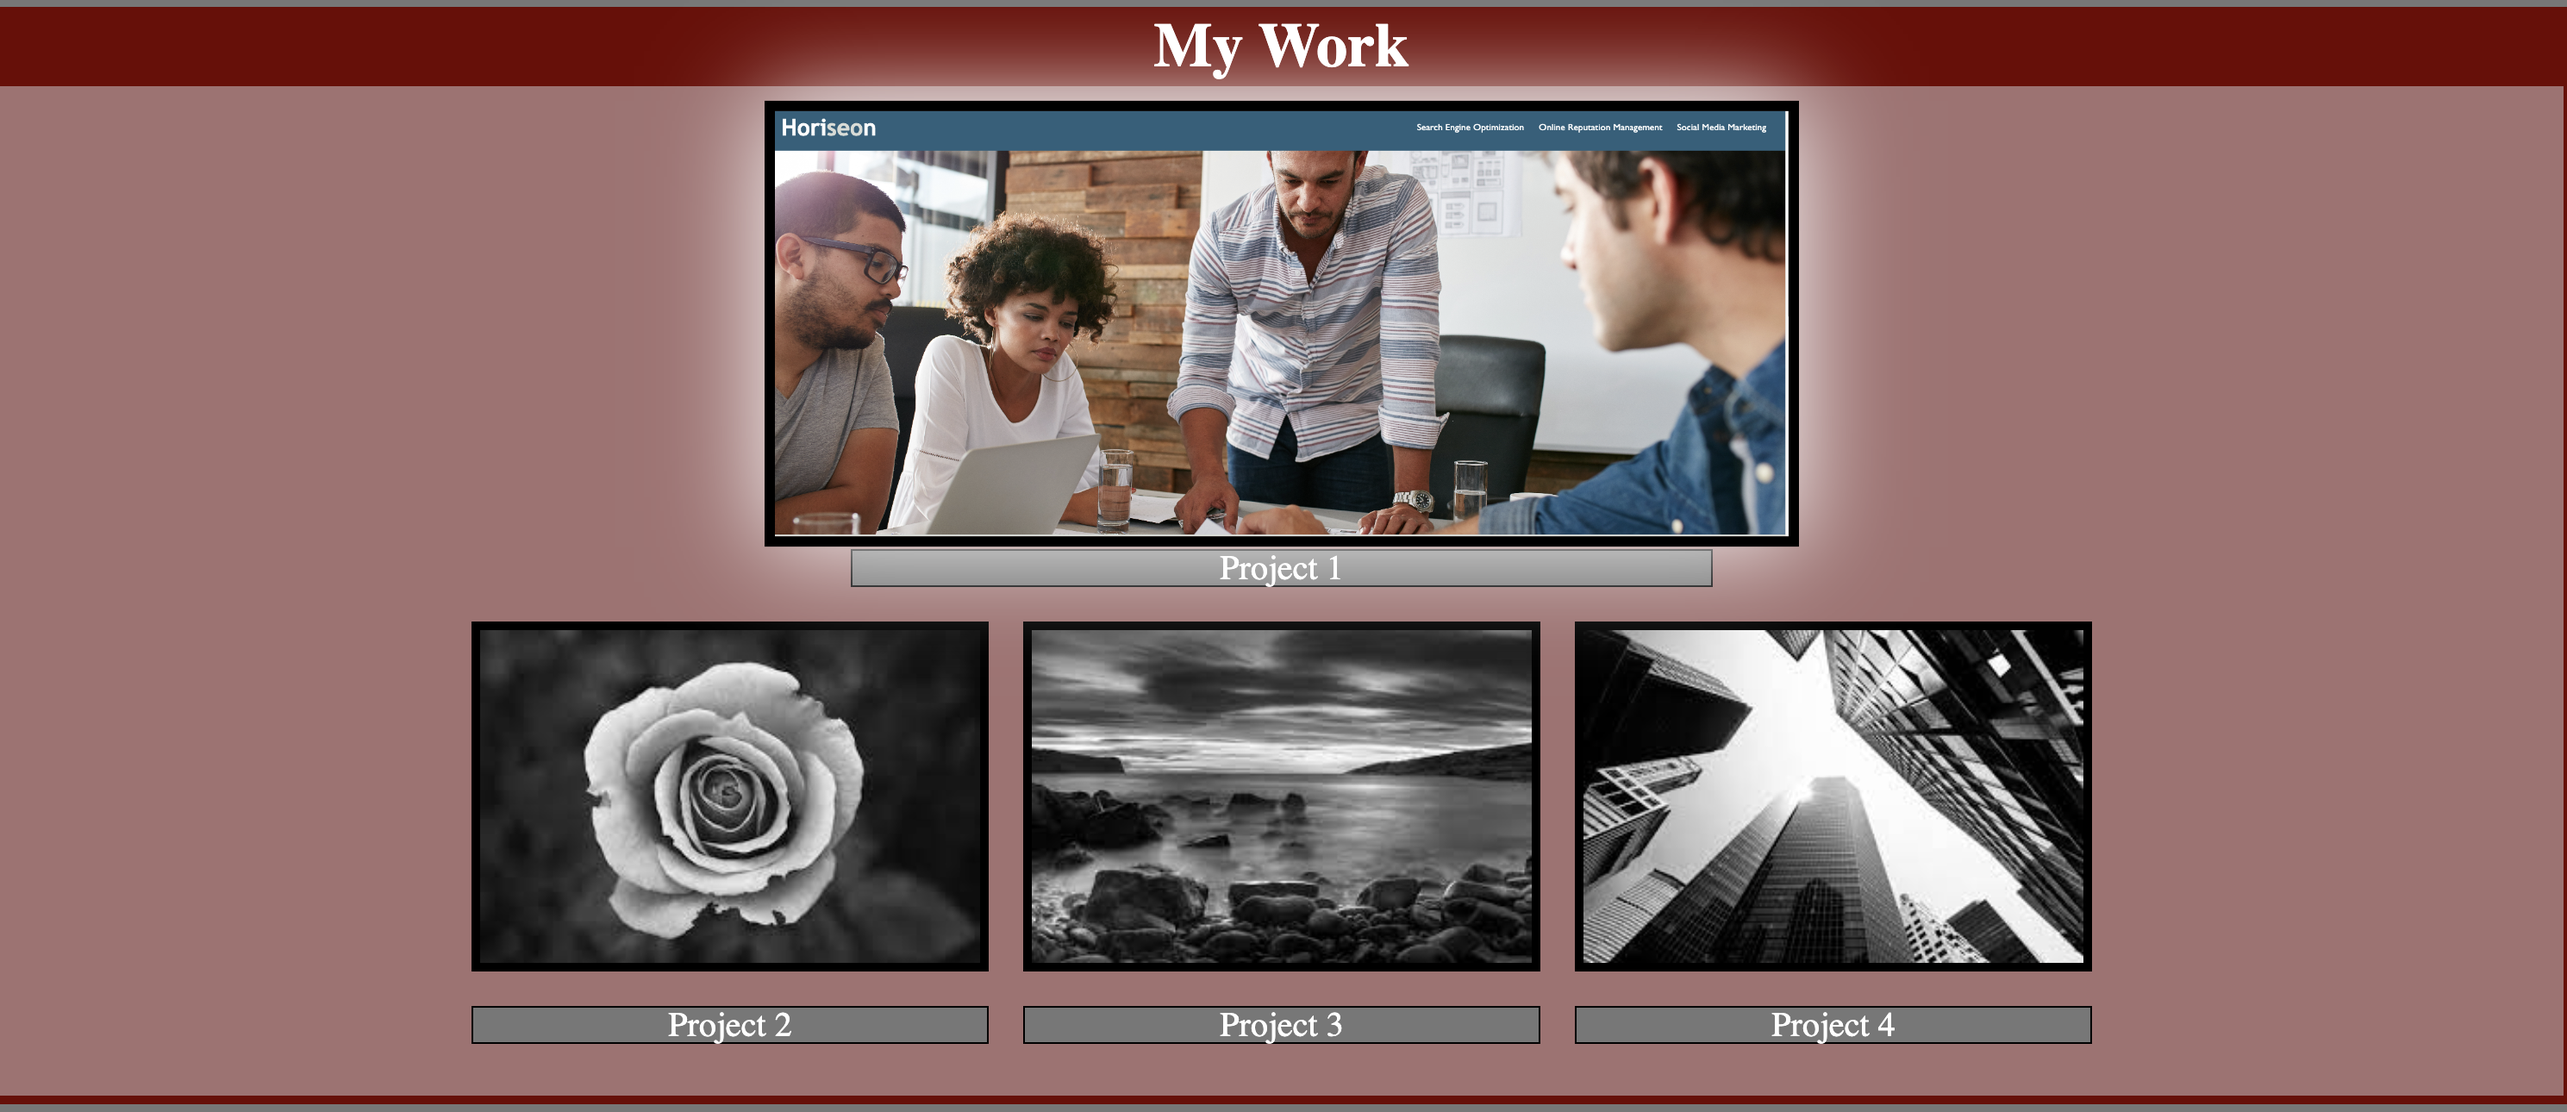
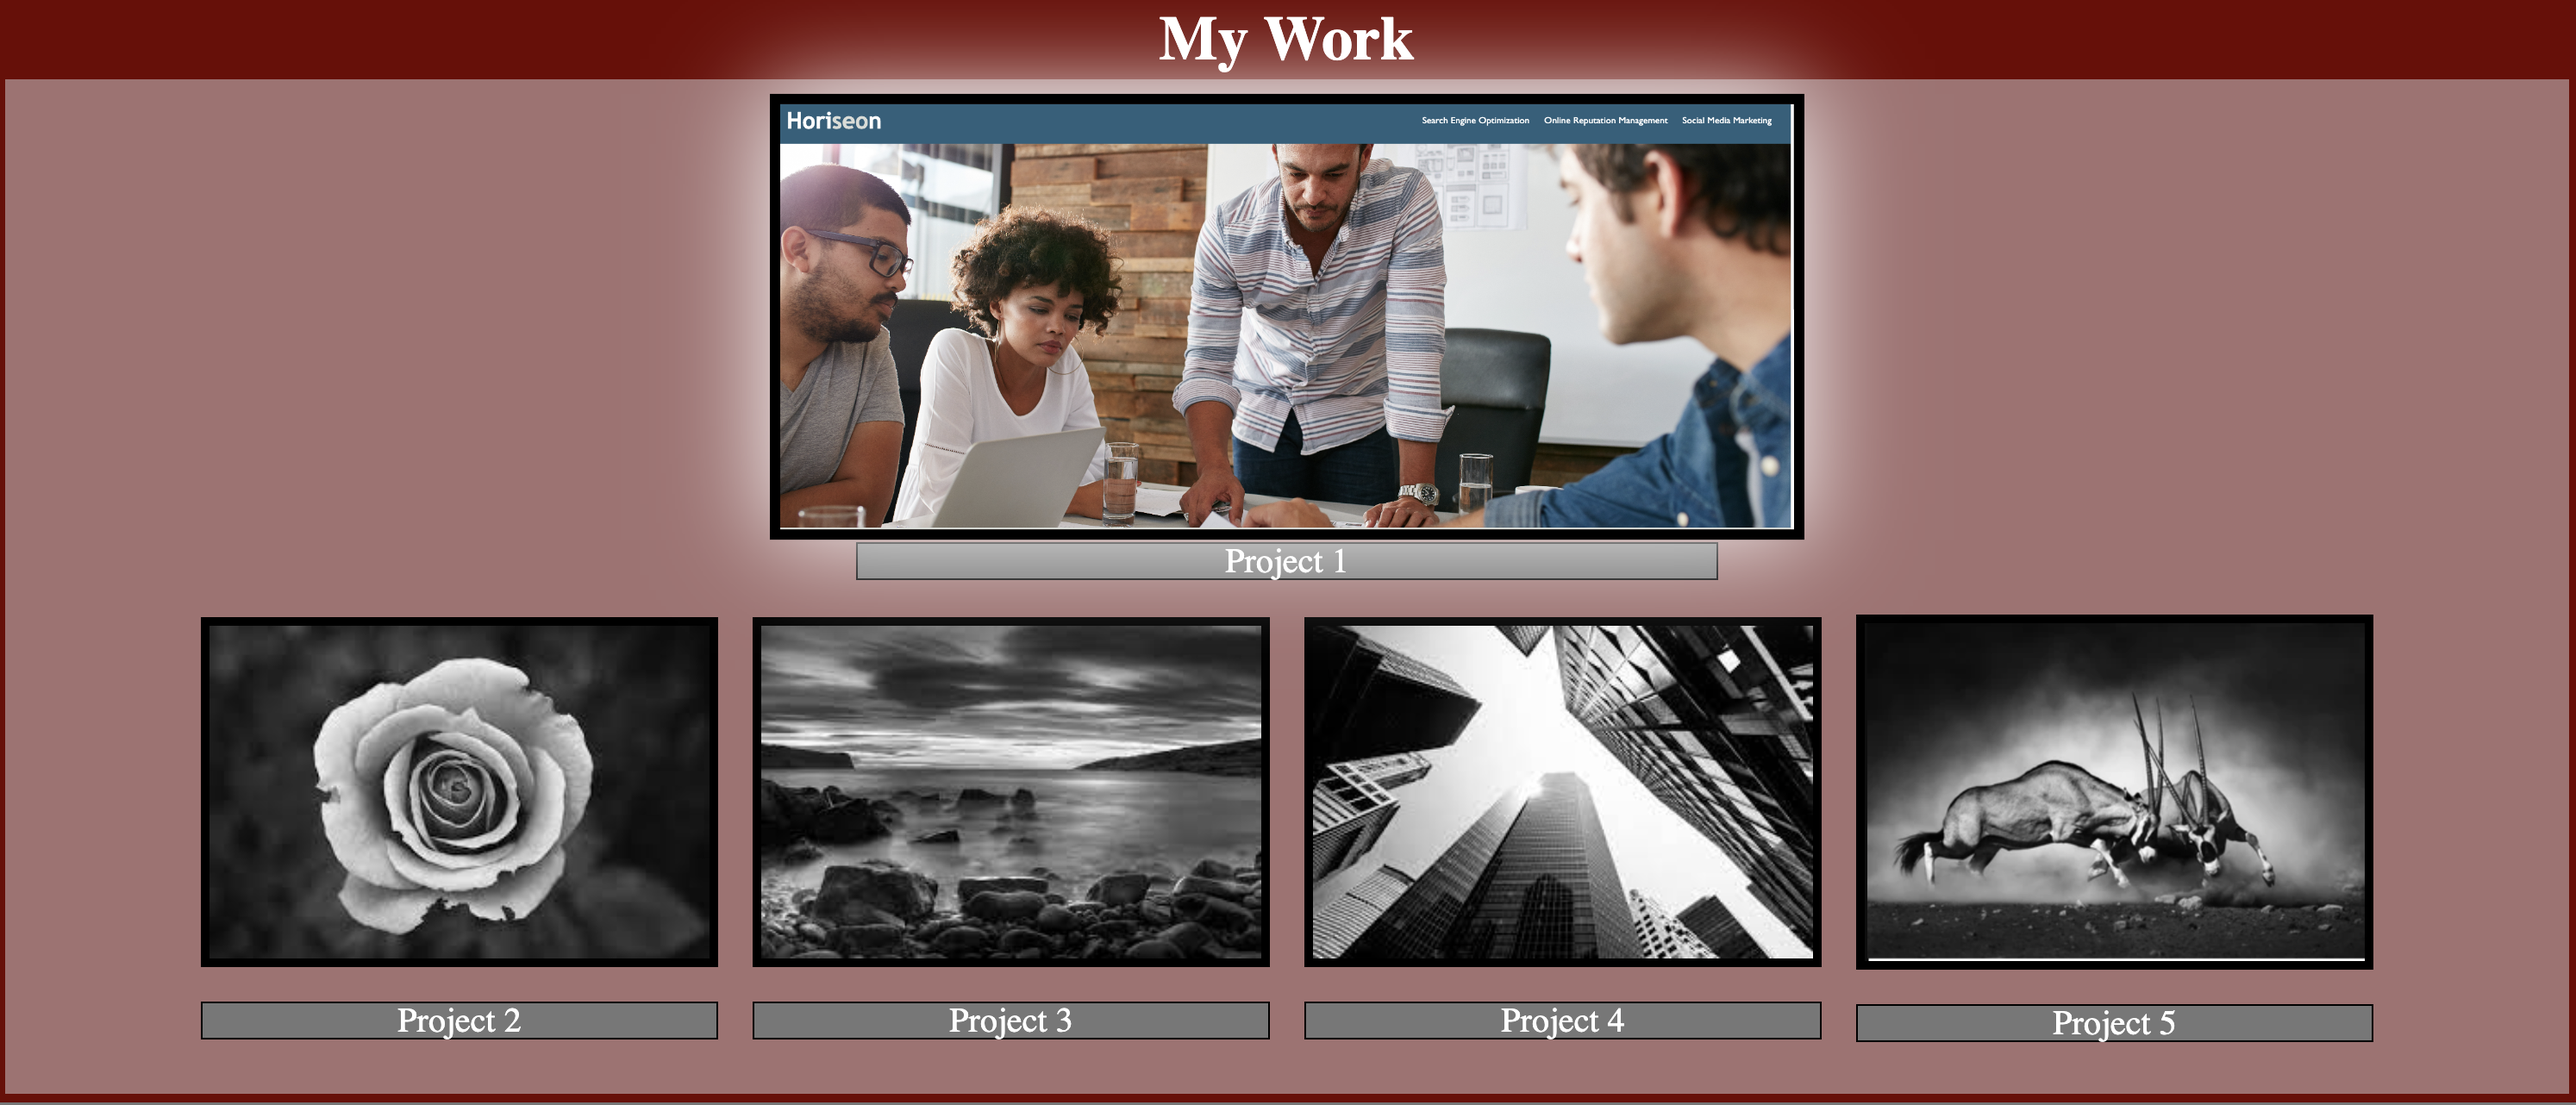
Added 1 more project image

diff --git a/index.html b/index.html
@@ -62,6 +62,10 @@
                     <img src="./assets/Images/Sample3.jpg" alt="Free black and white stockphoto of buildings" />
                 <p>Project 4</p>
             </div>
+            <div class="project">
+                <img src="./assets/Images/Sample4.jpg" alt="Free black and white stockphoto of antelope fighting" />
+            <p>Project 5</p>
+        </div>
         </section>
         <section id="Contact-Me" class="main-bottom">
             <img src="./assets/Images/HeadShot.jpg" alt="Headshot of Stephen Rossetti" class="float-left" />
